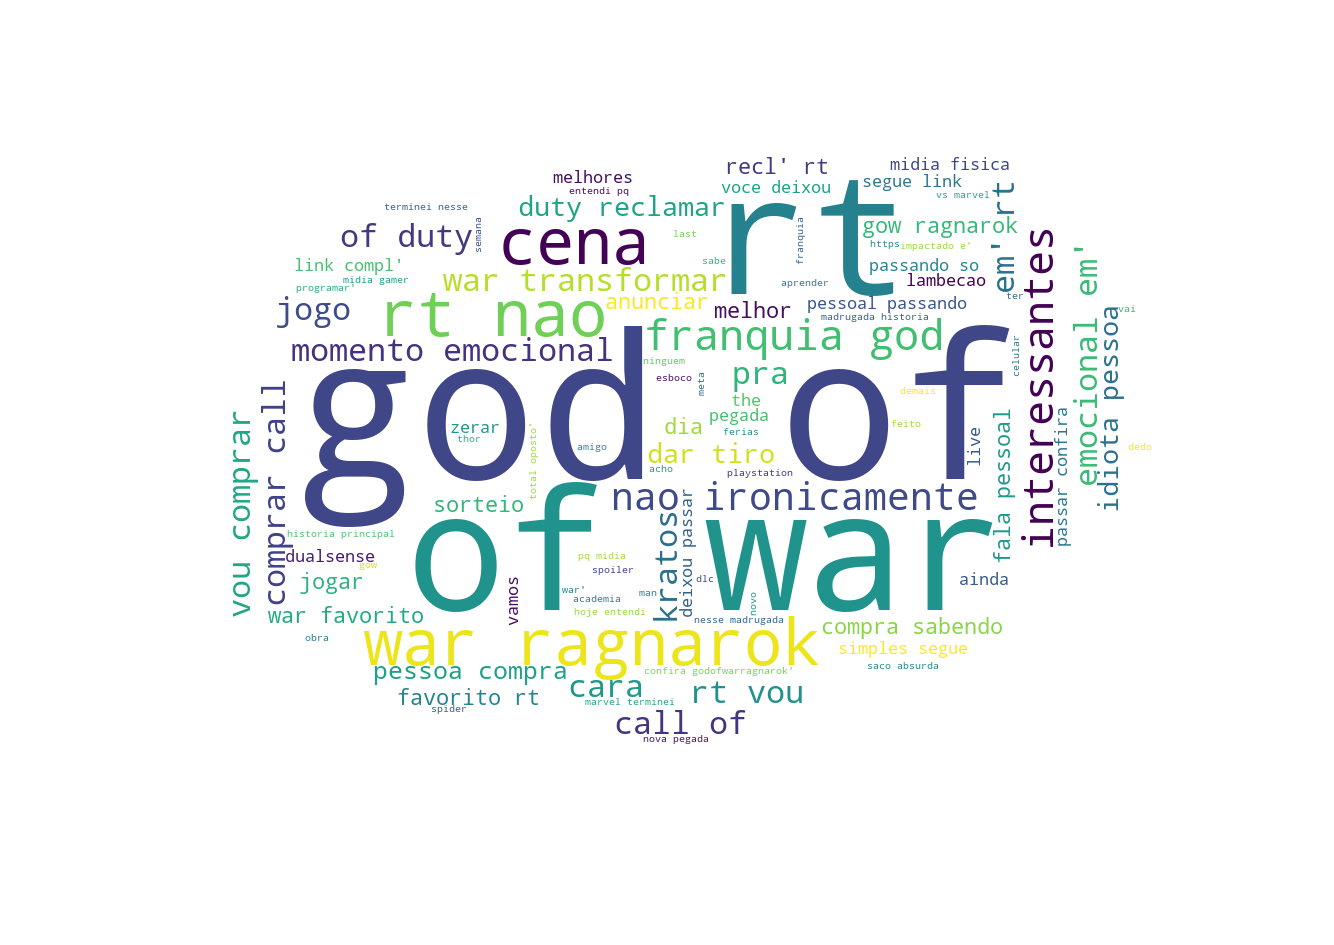
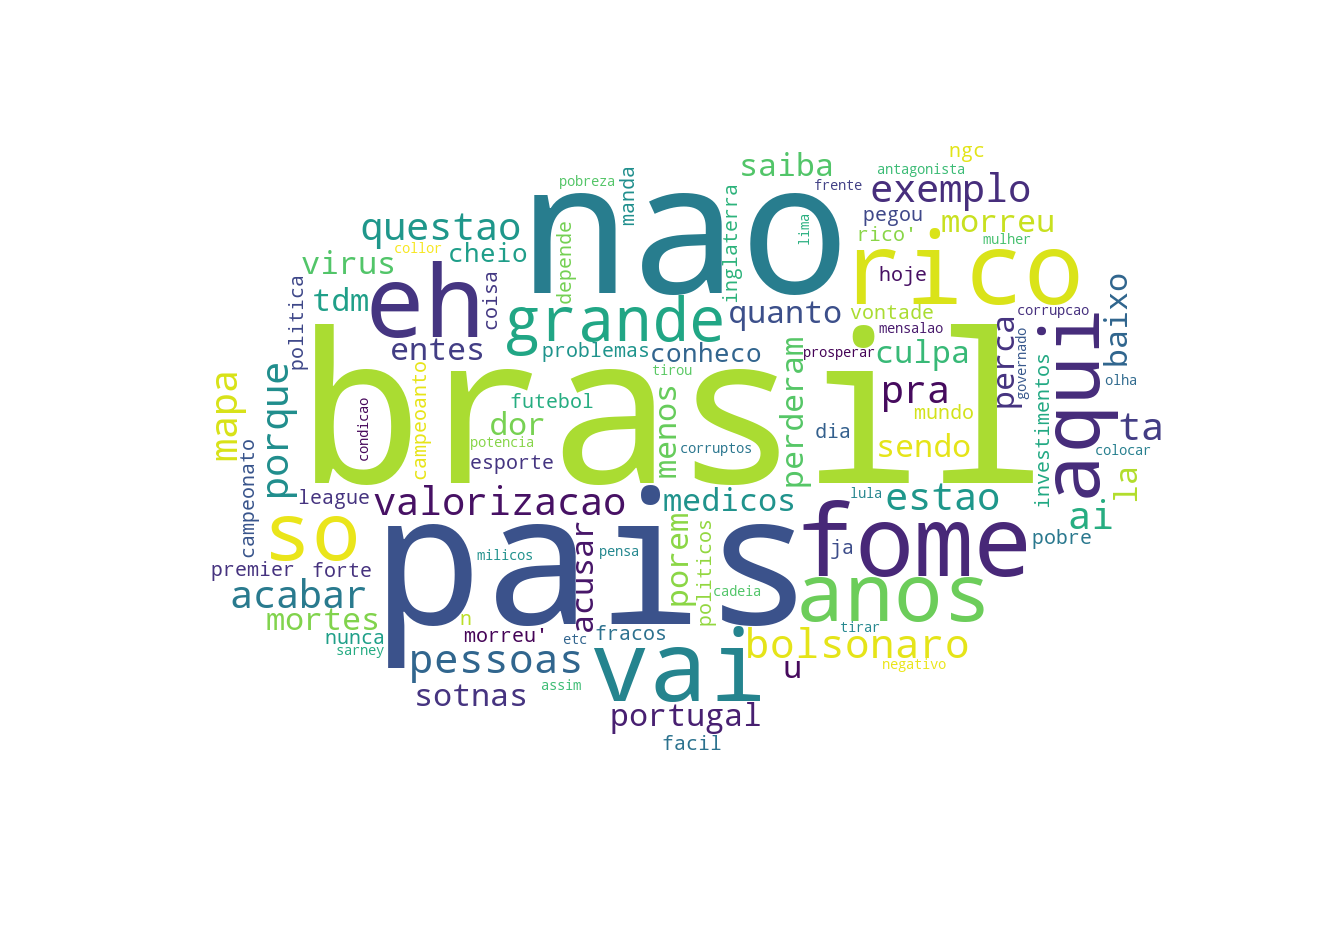
V3

Changed region(s): [[0.1537, 0.1534, 0.8913, 0.7979]]

diff --git a/main.py b/main.py
@@ -1,17 +1,12 @@
 # Import Libraries
 from pandas.io.formats import string
-from textblob import TextBlob
-import sys
-import string
 import tweepy
 import unicodedata
 import matplotlib.pyplot as plt
 import pandas as pd
 import string
 import numpy as np
-import os
 import nltk
-import pycountry
 import re
 from textblob import TextBlob
 from wordcloud import WordCloud, STOPWORDS
@@ -23,8 +18,8 @@ from nltk.sentiment.vader import SentimentIntensityAnalyzer
 from sklearn.feature_extraction.text import CountVectorizer
 
 # texto
-texto = input("Please enter keyword or hashtag to search: ")
-noOfTweet = int(input("Please enter how many tweets to analyze: "))
+texto = input("Digite o Termo ou rashtag desejado : ")
+noOfTweet = int(input("Digite a quantidade de Tweets a ser analisado: "))
 
 def percentage(part,whole):
     return 100 * float(part)/float(whole)
@@ -37,7 +32,8 @@ arquivo = diretorio + " \ " + nome
 acecessTokenBearer = "AAAAAAAAAAAAAAAAAAAAAFMOjwEAAAAAq11%2BDpuyrlaYs3K33G59O7wLYPI%3DT9utmwv7th0rZF8jCZT98yQqypAzTbO538Nnk3doe8bWnTnP2I"
 
 client = tweepy.Client(bearer_token=acecessTokenBearer)
-query = "{} is:retweet lang:pt".format(texto)
+# query = "{} is:retweet lang:pt".format(texto)
+query = "{} lang:pt".format(texto)
 paginator = tweepy.Paginator(
     client.search_recent_tweets,
     query=query,
@@ -62,7 +58,7 @@ def preprocess_tweet(sen):
     sentence = sen.lower()
 
     # Remove RT
-    sentence = re.sub('RT @\w+: ', " ", sentence)
+    sentence = re.sub('rt @\w+: ', " ", sentence)
 
     # Remove special characters
     sentence = re.sub("(@[A-Za-z0-9]+)|([^0-9A-Za-z \t])|(\w+:\/\/\S+)", " ", sentence)
@@ -81,9 +77,16 @@ def preprocess_tweet(sen):
 cleaned_tweets = []
 encoding = 'utf-8'
 
+# criar modulo tradutor
+
+
+
+
+# criar modulo tradutor
+
 for tweet in tweet_list_df['text']:
     pre_process_byte = unicodedata.normalize('NFD', tweet).encode('ascii', 'ignore')
-    pre_process =  pre_process_byte.decode(encoding)
+    pre_process = pre_process_byte.decode(encoding)
     cleaned_tweet = preprocess_tweet(pre_process)
     cleaned_tweets.append(cleaned_tweet)
 
@@ -237,11 +240,11 @@ def get_top_n_gram(corpus,ngram_range,n=None):
 
 #n2_bigram
 n2_bigrams = get_top_n_gram(tweet_list_df['text'],(2,2),20)
-n2_bigrams
+print(n2_bigrams)
 
 #n3_trigram
 n3_trigrams = get_top_n_gram(tweet_list_df['text'],(3,3),20)
-n3_trigrams
+print(n3_trigrams)
 
 def create_wordcloud(text):
     mask = np.array(Image.open(r"E:\Users\cleit\Documents\CURSO PYTHON\PLN2\cloud.png"))
@@ -260,4 +263,4 @@ def create_wordcloud(text):
     imagem = Image.open(arquivo_final, mode='r', formats=None)
     imagem.show()
 
-create_wordcloud(tweet_list_df["cleaned"].values)
+create_wordcloud(tweet_list_df_negative["cleaned"].values)
